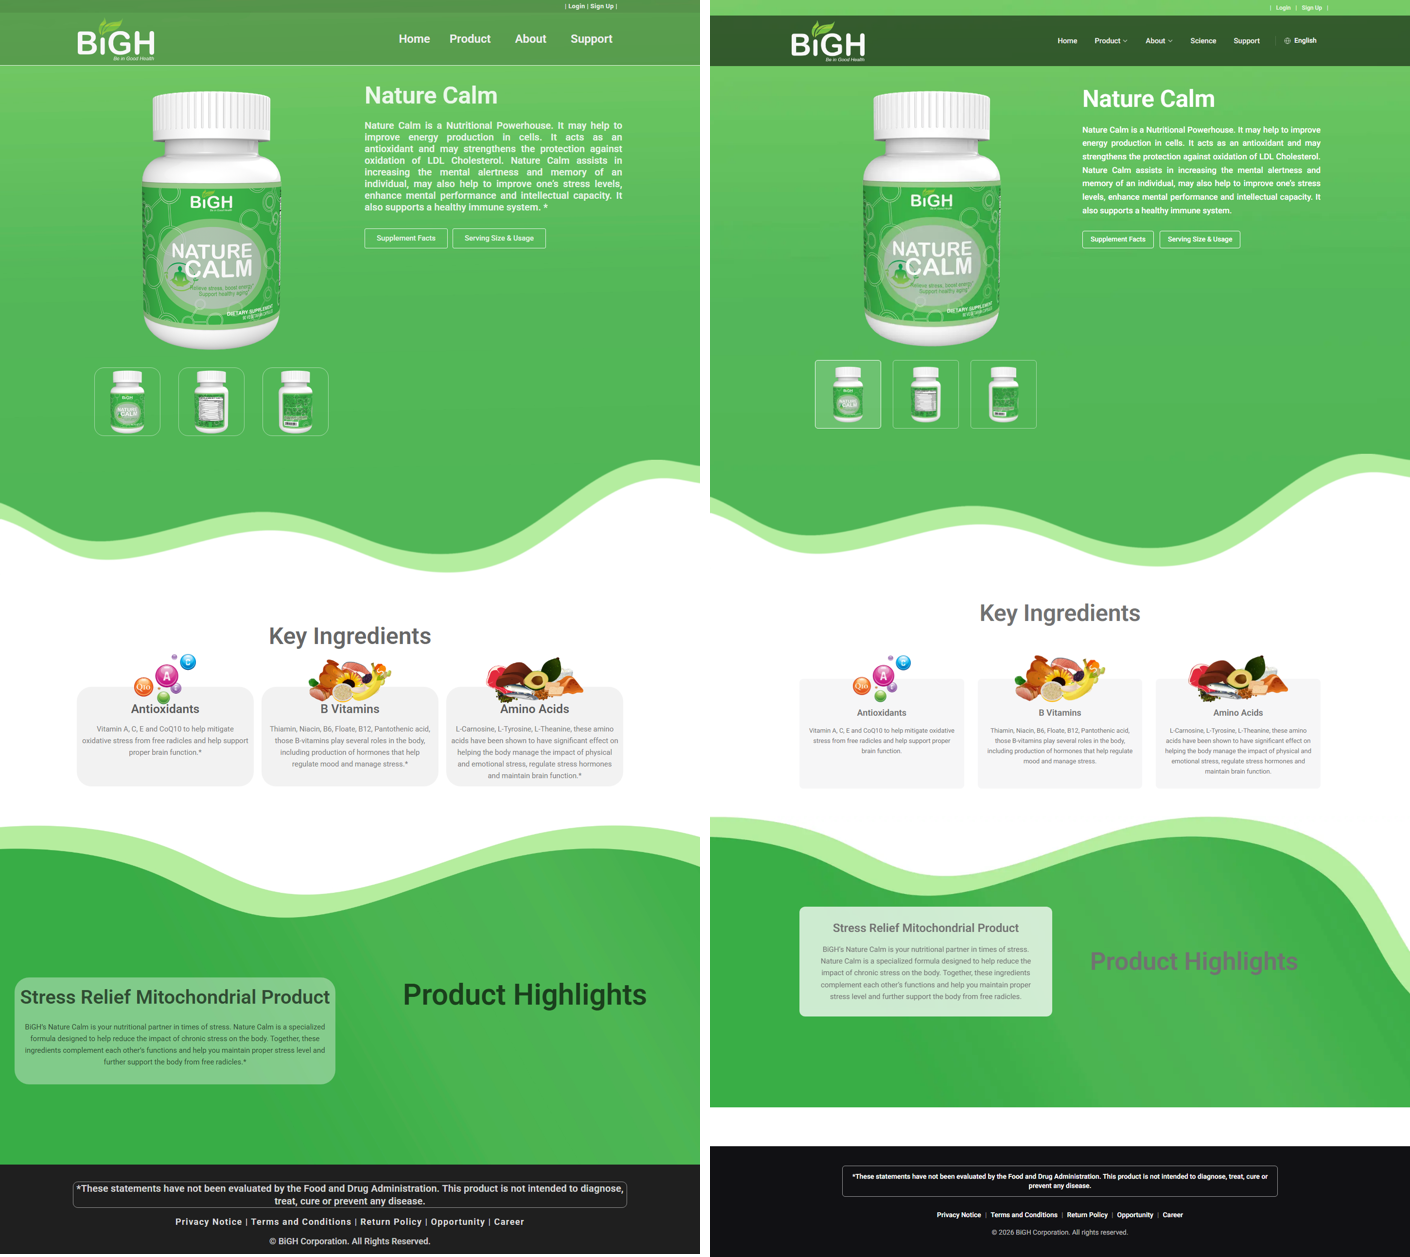
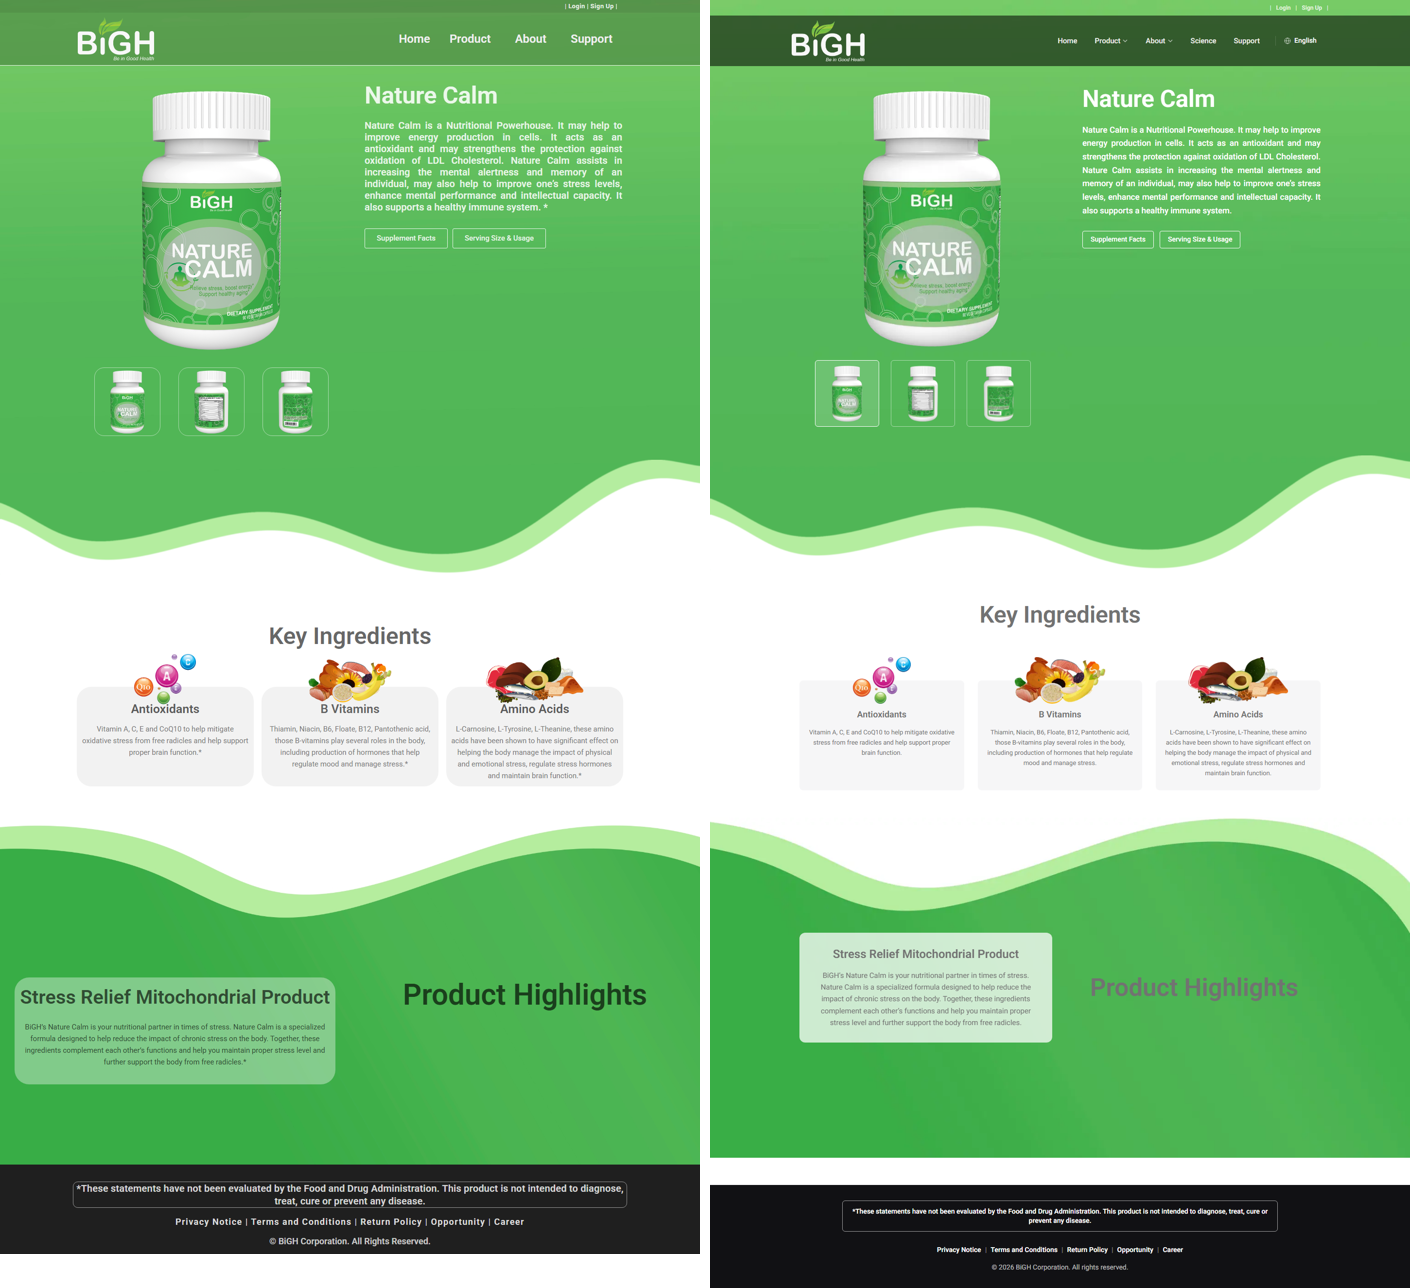
feat(clone): hit fidelity targets — products +/-3.5%, all pages within 9%
Per-product measured hero + band heights drive paddings; 6-col ingredient
grids get the original's tighter type; on-banner copy for vegan/non-gmo/
support/login/gluten-free; signup panel height; terms legal type; footer
gap trimmed to the original's rhythm.
Final parity (clone vs original page height): all 10 product pages within
+/-3.5% (>=96.5% similar); all 14 secondary pages within +/-8.9% (>=91%).

Claude-Session: https://claude.ai/code/session_01RzRMziC5GY7AzV6VWdUSyy

diff --git a/src/app/[locale]/[slug]/page.tsx b/src/app/[locale]/[slug]/page.tsx
@@ -33,6 +33,8 @@ const LAYOUT = productLayout as Record<
     gallery: string[];
     divider: string;
     darkText: boolean;
+    heroH: number;
+    bandH: number;
   }
 >;
 
@@ -173,7 +175,12 @@ function ProductPage({
             </ScrollDrift>
           </div>
         ))}
-        <div className="relative mx-auto grid max-w-[70rem] gap-8 px-4 pb-24 pt-[10.3rem] sm:px-6 md:grid-cols-[550px_1fr] md:pb-[18rem]">
+        <div
+          className="relative mx-auto grid max-w-[70rem] gap-8 px-4 pb-24 pt-[10.3rem] sm:px-6 md:grid-cols-[550px_1fr] md:pb-[var(--hero-pb)]"
+          // measured: hero content ends 887px down; each product's hero section
+          // height (incl. its wave divider) comes from the original page
+          style={{ "--hero-pb": `${layout.heroH - 887}px` } as React.CSSProperties}
+        >
           <Reveal>
             <ProductGallery images={gallery} alt={title} dark={layout.darkText} />
           </Reveal>
@@ -268,21 +275,36 @@ function ProductPage({
               }`}
             >
               {sec.cards.map((c) => (
-                <li key={c.title} className="rounded-lg bg-[#f6f6f7] px-4 pb-6 text-center">
+                <li
+                  key={c.title}
+                  className={`rounded-lg bg-[#f6f6f7] pb-6 text-center ${
+                    sec.cards.length >= 6 ? "px-3" : "px-4"
+                  }`}
+                >
                   {/* the original pulls each icon half out of the card top */}
                   {c.icon ? (
                     <Image
                       src={c.icon}
                       alt=""
                       {...imageDims(c.icon)}
-                      className="mx-auto -mt-12 mb-2 h-24 w-auto object-contain"
+                      className={`mx-auto -mt-12 mb-2 w-auto object-contain ${
+                        sec.cards.length >= 6 ? "h-20" : "h-24"
+                      }`}
                       sizes="130px"
                     />
                   ) : (
                     <div className="pt-5" />
                   )}
-                  <h3 className="text-lg font-semibold">{c.title}</h3>
-                  <p className="mt-3 text-[13px] leading-relaxed">{c.text}</p>
+                  <h3 className={`font-semibold ${sec.cards.length >= 6 ? "text-base" : "text-lg"}`}>
+                    {c.title}
+                  </h3>
+                  <p
+                    className={`mt-3 leading-relaxed ${
+                      sec.cards.length >= 6 ? "text-[12px]" : "text-[13px]"
+                    }`}
+                  >
+                    {c.text}
+                  </p>
                 </li>
               ))}
             </ul>
@@ -307,7 +329,10 @@ function ProductPage({
           {layout.bandBg && (
             <Image src={layout.bandBg} alt="" fill className="object-cover" sizes="100vw" />
           )}
-          <div className="relative mx-auto grid min-h-[37.5rem] max-w-[70rem] items-center gap-8 px-4 py-16 sm:px-6 md:grid-cols-2">
+          <div
+            className="relative mx-auto grid max-w-[70rem] items-center gap-8 px-4 py-12 sm:px-6 md:grid-cols-2"
+            style={{ minHeight: `${layout.bandH}px` }}
+          >
             {proseSections.map((sec, i) => (
               <Reveal key={sec.title || i} delay={i * 80}>
                 {sec.paragraphs.length > 0 || sec.images.length > 0 ? (
@@ -402,7 +427,10 @@ export default async function ClonePage({
     }));
     return (
       <article>
-        <section className="relative overflow-hidden">
+        <section
+          className="relative overflow-hidden"
+          style={{ minHeight: "min(76vw, 1100px)" }}
+        >
           <Image src={banner.img} alt="" fill priority className="object-cover" sizes="100vw" />
           <div className="relative mx-auto max-w-6xl px-4 pb-20 pt-44 sm:px-6">
             <div className="mx-auto max-w-3xl rounded-lg bg-black/25 px-6 py-9 text-center backdrop-blur-[2px]">
@@ -433,12 +461,13 @@ export default async function ClonePage({
 
   if (banner) {
     const t = slug === "support" ? await getTranslations({ locale, namespace: "Support" }) : null;
-    // these pages show their opening copy ON the banner in white, per the original
-    const onBanner = ["vegan", "non-gmo", "support"].includes(slug);
+    // these pages show their opening copy ON the banner in white, per the original;
+    // login renders its whole content there
+    const onBanner = ["vegan", "non-gmo", "support", "login", "gluten-free"].includes(slug);
     let bannerHtml = "";
     let belowHtml = html;
     if (onBanner) {
-      const idx = markdown.search(/^##\s/m);
+      const idx = slug === "login" ? -1 : markdown.search(/^##\s/m);
       bannerHtml = mdToHtml(idx === -1 ? markdown : markdown.slice(0, idx));
       belowHtml = idx === -1 ? "" : mdToHtml(markdown.slice(idx));
     }
@@ -447,12 +476,16 @@ export default async function ClonePage({
         {/* full-bleed banner with centered white title, per the original */}
         <section
           className={`relative overflow-hidden ${onBanner ? "" : "flex items-center justify-center"}`}
-          style={onBanner ? { minHeight: `min(52vw, ${banner.h}px)` } : { height: `min(62vw, ${banner.h}px)` }}
+          style={
+            onBanner
+              ? { minHeight: `min(${Math.round((banner.h / 1440) * 100)}vw, ${banner.h}px)` }
+              : { height: `min(${Math.round((banner.h / 1440) * 100) + 2}vw, ${banner.h}px)` }
+          }
         >
           <Image src={banner.img} alt="" fill priority className="object-cover" sizes="100vw" />
           <div aria-hidden className="absolute inset-0 bg-black/25" />
           {onBanner ? (
-            <div className="relative mx-auto max-w-5xl px-4 pb-14 pt-40 sm:px-6">
+            <div className="relative mx-auto max-w-5xl px-4 pb-10 pt-32 sm:px-6">
               <h1 className="text-center text-[clamp(2.4rem,4.4vw,3.95rem)] font-semibold text-white/95">
                 {title}
               </h1>
@@ -470,7 +503,7 @@ export default async function ClonePage({
         {belowHtml.trim() && (
           <div className="mx-auto max-w-4xl px-4 py-12 sm:px-6">
             <div
-              className="prose-clone mx-auto"
+              className={`prose-clone mx-auto ${slug === "terms-and-conditions" ? "prose-legal" : ""}`}
               // our own harvested, spam-stripped content — no third-party input
               dangerouslySetInnerHTML={{ __html: belowHtml }}
             />
@@ -506,7 +539,7 @@ export default async function ClonePage({
         {title}
       </h1>
       <div
-        className="prose-clone mt-8"
+        className={`prose-clone mt-8 ${slug === "terms-and-conditions" ? "prose-legal" : ""}`}
         // our own harvested, spam-stripped content — no third-party input
         dangerouslySetInnerHTML={{ __html: html }}
       />

diff --git a/src/data/page-banners.ts b/src/data/page-banners.ts
@@ -6,8 +6,8 @@ export const PAGE_BANNERS: Record<string, { img: string; h: number }> = {
   support: { img: "/original/uploads/2019/04/support_bg1.jpg", h: 897 },
   organic: { img: "/original/uploads/2019/04/sprouts.jpg", h: 832 },
   "non-gmo": { img: "/original/uploads/2019/03/gmo1.jpg", h: 676 },
-  "gluten-free": { img: "/original/uploads/2019/03/organic-1.jpg", h: 800 },
+  "gluten-free": { img: "/original/uploads/2019/03/organic-1.jpg", h: 1272 },
   vegan: { img: "/original/uploads/2019/03/vegan-3.jpg", h: 730 },
   signup: { img: "/original/uploads/2019/04/signup_bg4.jpg", h: 900 },
-  login: { img: "/original/uploads/2019/04/login_bg5.jpg", h: 800 },
+  login: { img: "/original/uploads/2019/04/login_bg5.jpg", h: 1000 },
 };

diff --git a/src/components/clone/product-gallery.tsx b/src/components/clone/product-gallery.tsx
@@ -39,7 +39,7 @@ export function ProductGallery({ images, alt, dark = false }: GalleryProps) {
                 onClick={() => setActive(i)}
                 aria-label={`${alt} ${i + 1}`}
                 aria-current={i === active}
-                className={`block w-[8.5rem] max-w-[22vw] rounded-md border p-2 transition-colors ${
+                className={`block w-[8.25rem] max-w-[22vw] rounded-md border p-1.5 transition-colors ${
                   dark
                     ? i === active
                       ? "border-black/60 bg-black/5"

diff --git a/src/components/clone/footer.tsx b/src/components/clone/footer.tsx
@@ -18,8 +18,8 @@ export async function SiteFooter({ locale }: { locale: Locale }) {
   ];
 
   return (
-    <footer className="mt-20 bg-[#111114] text-white">
-      <div className="mx-auto max-w-5xl px-4 py-10 sm:px-6">
+    <footer className="mt-14 bg-[#111114] text-white">
+      <div className="mx-auto max-w-5xl px-4 py-8 sm:px-6">
         <p className="mx-auto max-w-4xl rounded-md border border-white/60 px-4 py-3 text-center text-sm font-semibold leading-snug">
           {t("disclaimer")}
         </p>

diff --git a/src/app/globals.css b/src/app/globals.css
@@ -113,6 +113,16 @@ html[lang="vn"] {
     font-size: 15px;
   }
 
+  /* terms page uses the original's larger legal type */
+  .prose-legal {
+    font-size: 17px;
+    line-height: 1.8;
+  }
+  .prose-legal p,
+  .prose-legal li {
+    margin: 1.05em 0;
+  }
+
   /* white copy rendered directly on page banners (vegan, non-gmo, support) */
   .prose-banner {
     max-width: 52rem;
